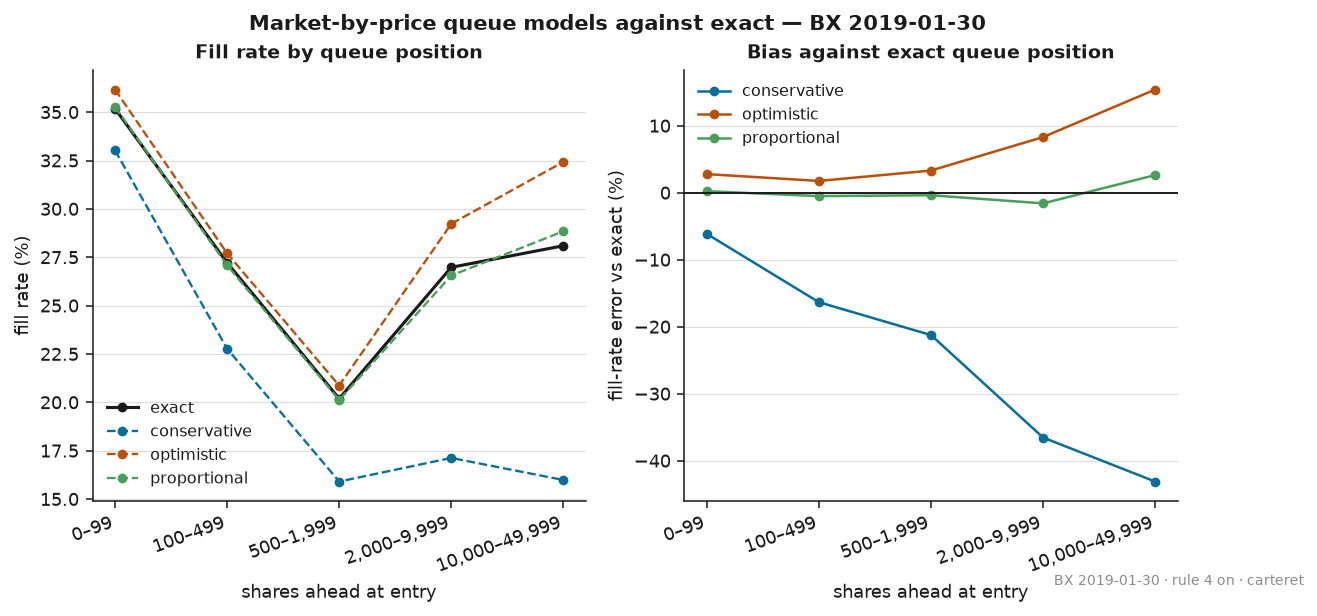
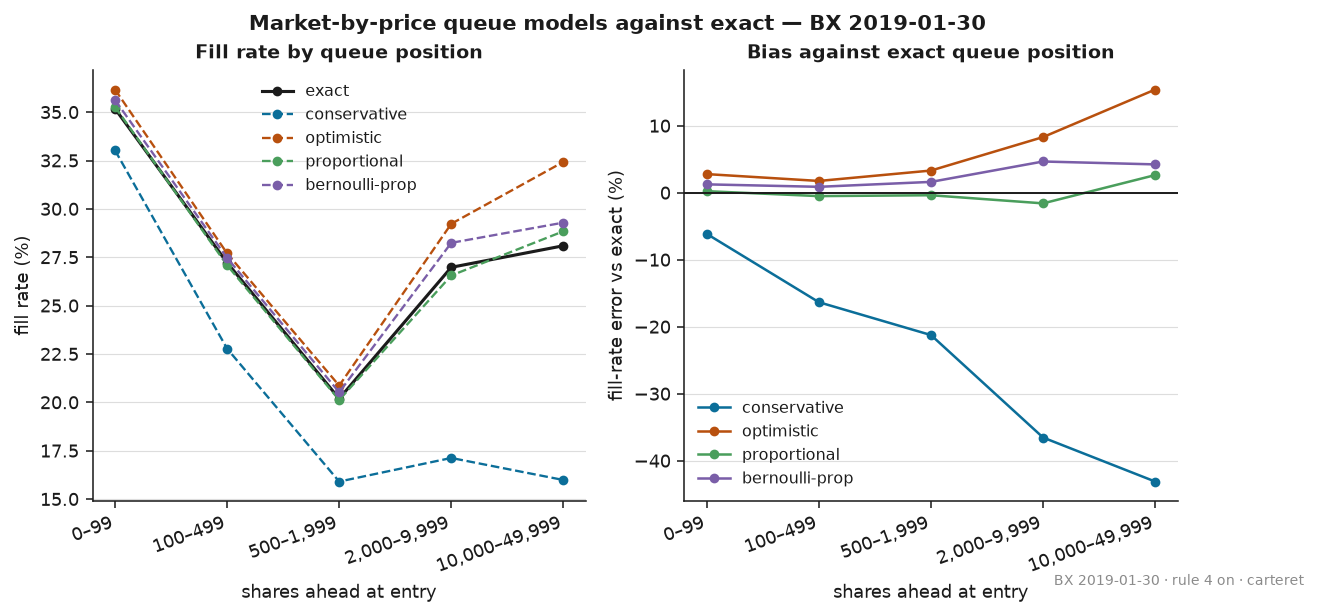
docs: report the Bernoulli-proportional result and correct the account of proportional
Record 035a predicted that matching the variance would close most of
proportional's gap to exact. It did the opposite: the Bernoulli model's bias
is +1.4% against proportional's -0.5%, nearly three times the magnitude and
larger in every depth bucket.

The two predictions that did hold are the ones that matter. The residual is
positive in every bucket and rises with depth in the same order as the
measured attribution error, while proportional's own bias is non-monotone
and changes sign twice. That separates the two terms: a shape term of -2.0%
and an attribution term of +1.4%, cancelling to the -0.5% previously
reported as near-unbiasedness.

So proportional is not nearly unbiased because it is nearly right. It is
nearly unbiased because two errors of comparable size cancel on this
session, and the two depend on different properties of a market. The README
and record 035b now say that rather than offering the cancellation as
accuracy.

The curvature check is reported as inconclusive. Four of six interior points
of the within-symbol curve are convex, seven of fifteen bins are too sparse
to use, and the deep region where the effect would be largest cannot be
estimated at all on this session.

diff --git a/README.md b/README.md
@@ -179,7 +179,7 @@ pre-registration.
 
 93,525 synthetic orders, one round lot each, placed at the inside of the 50
 busiest symbols at random times through `20190130.BX_ITCH_50`, cancelled after
-60 seconds if unfilled. All four models see the identical placements and the
+60 seconds if unfilled. All five models see the identical placements and the
 identical executed volume; they differ **only** in how a cancel at the price
 is attributed, which is what isolates the bias.
 
@@ -200,26 +200,33 @@ be compared against the seed range of the fill-rate *level*.
 | Conservative | 19.87% | **−20.9%** | [−24.4, −17.7] | 1.01 pp | 21.2 s |
 | Optimistic | 25.84% | +2.9% | [+1.9, +4.0] | 0.44 pp | 17.2 s |
 | Proportional | 24.99% | −0.5% | [−0.79, −0.27] | 0.36 pp | 18.2 s |
+| Bernoulli-proportional | 25.48% | +1.4% | [+0.80, +2.16] | 0.40 pp | 17.7 s |
 
-All three intervals exclude zero, and all three biases have the same sign in
-every one of the ten placement sequences. But the magnitudes differ by two
-orders: conservative's bias is twenty times its own seed range, while
-proportional's is barely larger than its own. **Conservative's bias is a
-finding; proportional's is a real but negligible effect**, and it would be
-wrong to present the two as comparable results.
+Every interval excludes zero, and every bias has the same sign in all ten
+placement sequences. But the magnitudes differ by two orders: conservative's
+bias is twenty times its own seed range, while proportional's is barely larger
+than its own. **Conservative's bias is a finding; proportional's is a real but
+negligible effect**, and it would be wrong to present the two as comparable
+results.
+
+The fifth model is an instrument rather than a candidate. It takes the
+proportional model's assumed ahead-share as a coin instead of an average and
+removes the cancelled order all-or-nothing, so it has proportional's mean and
+exact's shape; it exists to separate the two, and what it shows about
+proportional is below.
 
 ### The bias is small in aggregate and severe where it matters
 
 Pooled, proportional is almost unbiased and even optimistic is only 3% high.
 That aggregate hides the result:
 
-| Shares ahead at entry | n placed | Exact | Conservative | Optimistic | Proportional |
-|---|---:|---:|---:|---:|---:|
-| 0–99 | 1,114 | 34.8% | −6.2% | +2.8% | +0.3% |
-| 100–499 | 65,462 | 26.5% | −17.9% | +1.9% | −0.5% |
-| 500–1,999 | 19,877 | 19.5% | −23.8% | +3.6% | −0.4% |
-| 2,000–9,999 | 6,403 | 26.3% | −44.0% | +9.2% | −1.5% |
-| 10,000–49,999 | **669** | 27.7% | **−56.7%** | +16.2% | +2.2% |
+| Shares ahead at entry | n placed | Exact | Conservative | Optimistic | Proportional | Bernoulli |
+|---|---:|---:|---:|---:|---:|---:|
+| 0–99 | 1,114 | 34.8% | −6.2% | +2.8% | +0.3% | +1.0% |
+| 100–499 | 65,462 | 26.5% | −17.9% | +1.9% | −0.5% | +0.9% |
+| 500–1,999 | 19,877 | 19.5% | −23.8% | +3.6% | −0.4% | +2.1% |
+| 2,000–9,999 | 6,403 | 26.3% | −44.0% | +9.2% | −1.5% | +4.9% |
+| 10,000–49,999 | **669** | 27.7% | **−56.7%** | +16.2% | +2.2% | +4.9% |
 
 The conservative model — the cautious choice, the one a backtest reaches for
 to avoid overstating fills — is the worst, and it gets worse the deeper the
@@ -262,12 +269,55 @@ earlier. A uniform assumption therefore over-attributes to the front.
 data shows where it fails.** A positive attribution error should mean
 over-estimated fills, yet proportional's pooled fill-rate bias is
 *negative* (−0.5%), turning positive (+2.2%) only in the deepest bucket where
-the attribution error is largest. The reason is that the mean error is not the
-whole story: exact removes a cancel from the queue ahead all-or-nothing, while
-proportional always removes a fraction. The two differ in variance as well as
-in mean, and fill probability is not linear in the ahead-count. The attribution
-error dominates only where the queue is deep enough for queue position to be
-the binding constraint.
+the attribution error is largest.
+
+### Separating the two errors, with the prediction recorded first
+
+The explanation for that is a second error of the opposite sign: exact removes
+a cancel from the queue ahead all-or-nothing, while proportional always
+removes a fraction, so the two differ in the *variance* of the ahead-count as
+well as its mean. That was an argument, not a measurement, so it was given a
+test — and the test's prediction was written into `docs/design.md` record 035a
+and committed before the instrument existed.
+
+The instrument is the **Bernoulli-proportional** model: proportional's assumed
+ahead-share taken as a coin, with the cancelled order removed in full on a hit
+and not at all on a miss. Same mean as proportional, same all-or-nothing shape
+as exact, so what is left when it is compared against exact is the attribution
+error alone.
+
+| Term | Estimate | What it is |
+|---|---:|---|
+| Shape | **−2.0%** | proportional minus Bernoulli: the cost of removing cancels as a fraction rather than in jumps |
+| Attribution | **+1.4%** | Bernoulli minus exact: what remains once the shape matches |
+| **Net** | **−0.5%** | proportional minus exact — the figure reported above as near-unbiasedness |
+
+The residual is positive in every depth bucket and rises with depth — 1.0,
+0.9, 2.1, 4.9, 4.9 — in the same order as the attribution error's 0.13, 0.18,
+0.63, 1.57, 4.00 pp. Proportional's own bias does neither: it is non-monotone
+and changes sign twice. Matching the shape is what makes the residual behave
+like the error that is known to be there.
+
+**The prediction was half wrong, and the correction matters.** Record 035a
+predicted that matching the shape would *close most of the gap* to exact. It
+did the opposite: the Bernoulli model's bias is nearly three times
+proportional's, because the two terms are of comparable size rather than one
+dominating. So **proportional is not nearly unbiased because it is nearly
+right — it is nearly unbiased because two errors of comparable magnitude
+cancel on this session**, and nothing holds that balance in place. The shape
+term depends on how fill probability curves with queue position; the
+attribution term depends on how concentrated cancellation is among young
+orders. Those are different properties of a market, and there is no reason for
+them to stay matched on another venue, date or order size. Expect the
+proportional model's bias to be small; do not expect it to be reliably small.
+
+A second check, on the curvature of fill probability against the ahead-count,
+**did not settle its question** and is reported as inconclusive in record 035b
+rather than counted as agreement. The pooled curve is confounded — depth at
+entry is not assigned at random, and a symbol with a deep queue is one that
+trades often — and the within-symbol curve can only be estimated over the
+range where enough symbols contribute, which excludes exactly the deep region
+where the effect would be largest.
 
 ### Where the fills come from explains the value
 

diff --git a/docs/design.md b/docs/design.md
@@ -1516,3 +1516,88 @@ curve is concave over that region, the Jensen term has the wrong sign and the
 explanation fails regardless of what the Bernoulli model does.
 
 Results follow in 035b, which was written after this section was committed.
+
+---
+
+### 035b — Results: the mechanism holds, the prediction did not
+
+Same session, same 93,525 placements, rule 4 off. Every model sees the
+identical synthetic orders; the Bernoulli model's coin comes from its own
+generator and moves none of them.
+
+| Model | Fill rate | Bias vs exact | 95% CI (symbol bootstrap) | Seed range |
+|---|---:|---:|---|---:|
+| Exact | 25.124% | — | — | — |
+| Proportional | 24.989% | −0.5% | [−0.79, −0.27] | 0.36 pp |
+| **Bernoulli-proportional** | **25.481%** | **+1.4%** | **[+0.80, +2.16]** | 0.40 pp |
+
+**Prediction 1 failed.** Bernoulli-proportional did not close the gap to
+exact. Its bias is nearly three times proportional's in magnitude, and larger
+in every depth bucket:
+
+| Shares ahead at entry | n | Exact | Proportional | Bernoulli |
+|---|---:|---:|---:|---:|
+| 0–99 | 1,114 | 34.83% | +0.26% | +1.03% |
+| 100–499 | 65,462 | 26.52% | −0.53% | +0.91% |
+| 500–1,999 | 19,877 | 19.54% | −0.36% | +2.10% |
+| 2,000–9,999 | 6,403 | 26.25% | −1.52% | +4.88% |
+| 10,000–49,999 | 669 | 27.65% | +2.17% | +4.88% |
+
+**Predictions 2 and 3 held, and held cleanly.** The Bernoulli model's residual
+bias is positive in every bucket and rises with depth — 1.0, 0.9, 2.1, 4.9,
+4.9 — in the same order as the measured attribution error of 0.13, 0.18,
+0.63, 1.57 and 4.00 pp. Proportional's own bias does neither: it is
+non-monotone and changes sign twice across the same buckets. Matching the
+shape of the process is what makes the residual behave like the attribution
+error that is known to be there.
+
+**What this says, and it is not what 035a expected.** The two effects are of
+comparable size and opposite sign, and they very nearly cancel:
+
+| Term | Estimate | What it is |
+|---|---:|---|
+| Shape | **−2.0%** | proportional minus Bernoulli: the cost of removing cancels as a fraction rather than in jumps |
+| Attribution | **+1.4%** | Bernoulli minus exact: what is left once the shape matches, which is the +0.92 pp mean error |
+| Net | −0.5% | proportional minus exact, the figure previously reported as near-unbiasedness |
+
+So the mechanism in record 035 — two terms, opposite signs, partial offset —
+is **confirmed in its structure**. What was wrong was the assumption behind
+prediction 1, that the shape term accounted for *most* of proportional's small
+negative bias and that removing it would leave nearly nothing. It accounts for
+rather more than all of it.
+
+**The practical consequence is a correction, not a refinement.** Proportional
+attribution is not nearly unbiased because it is nearly right. It is nearly
+unbiased on this session because two errors of comparable magnitude happened
+to cancel, and **nothing holds that balance in place**. The shape term depends
+on how fill probability curves with queue position; the attribution term
+depends on how concentrated cancellation is among young orders. Those are
+different properties of a market and there is no reason for them to stay
+matched on another venue, another date or another order size. A user of the
+proportional model should expect its bias to be small and should not expect it
+to be reliably small.
+
+**The curvature check did not settle its question.** The pooled curve of fill
+probability against the ahead-count is unusable: it *rises* from 19.3% at
+about 2,300 shares ahead to 37.8% at about 6,300, because depth at entry is
+confounded with symbol activity — a symbol with a deep queue is a symbol that
+trades often. Removing that by fitting bin effects alongside symbol effects,
+weighted by placements, gives a curve that falls monotonically from 29.4% at
+about 100 shares to 14.0% at about 3,700.
+
+On the linear ahead-count axis, which is the axis the models perturb, **four
+of the six interior points of that adjusted curve are convex**. That is
+consistent with the Jensen argument and does not establish it. Seven of the
+fifteen bins are dropped for sparsity, and three of the deepest return fitted
+rates outside [0, 1] — the linear probability model reporting that it has been
+asked to extrapolate from two or three symbols. The region where the Jensen
+term would be largest is precisely the region where this session cannot
+estimate the curve at all.
+
+**Status of the explanation.** The Bernoulli test supports the two-term
+decomposition and makes the attribution term directly visible. The curvature
+check is inconclusive. Record 035's account stands as a decomposition that has
+been measured, not as a mechanism that has been traced end to end, and this
+record says so rather than reading four points out of six as agreement.
+
+**Scope.** One venue, one session, 50 symbols, one order size.
